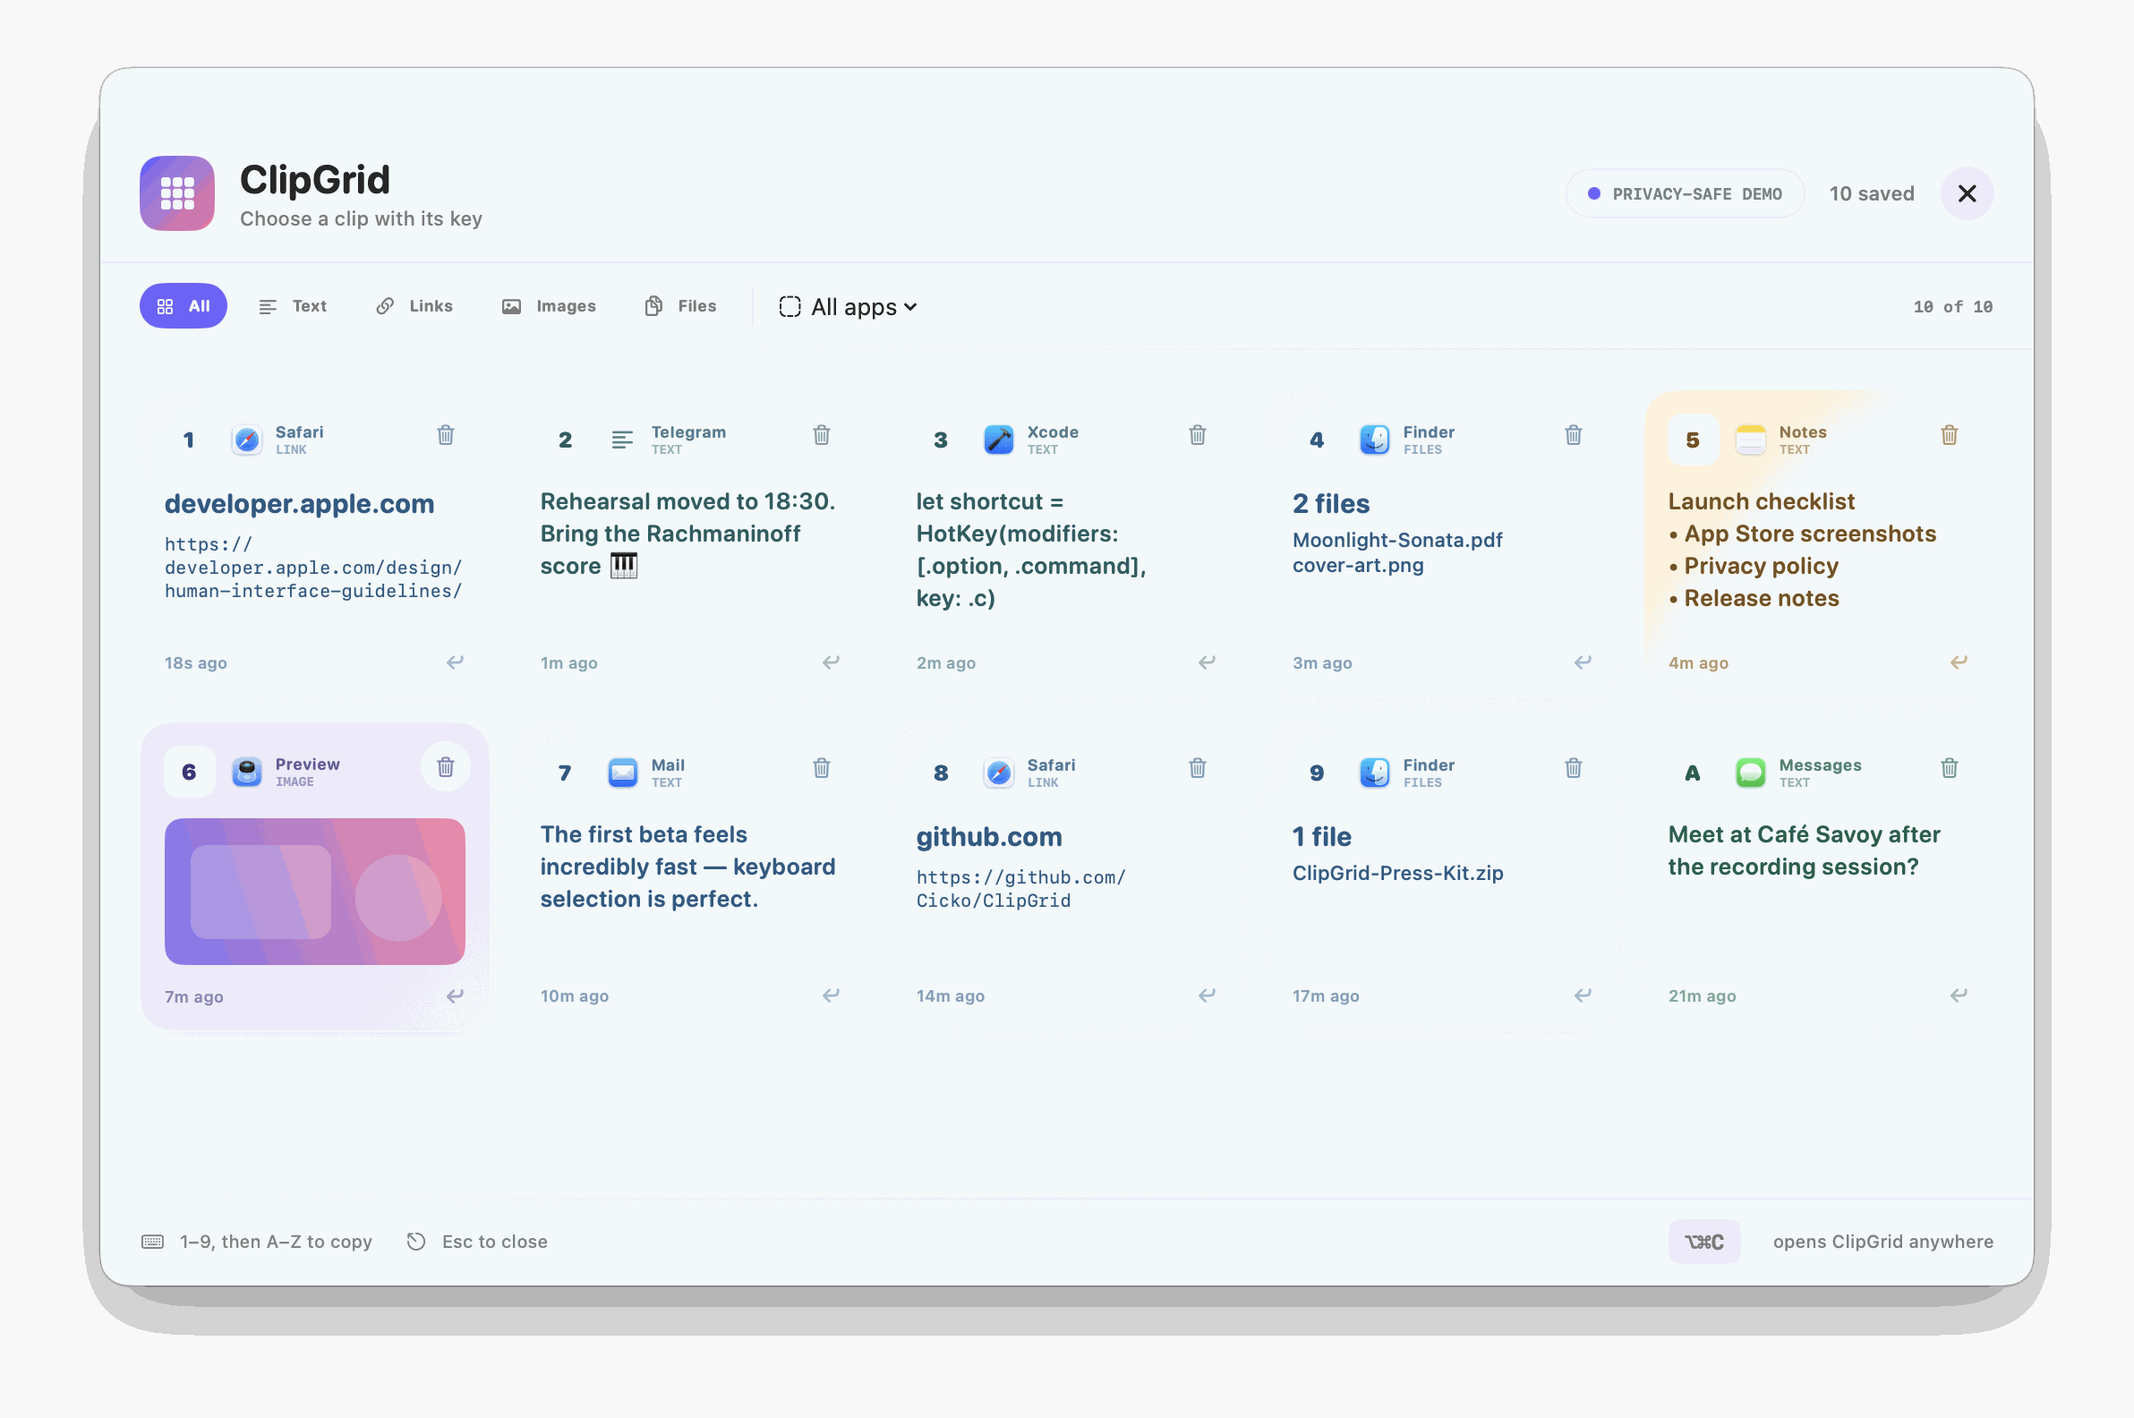
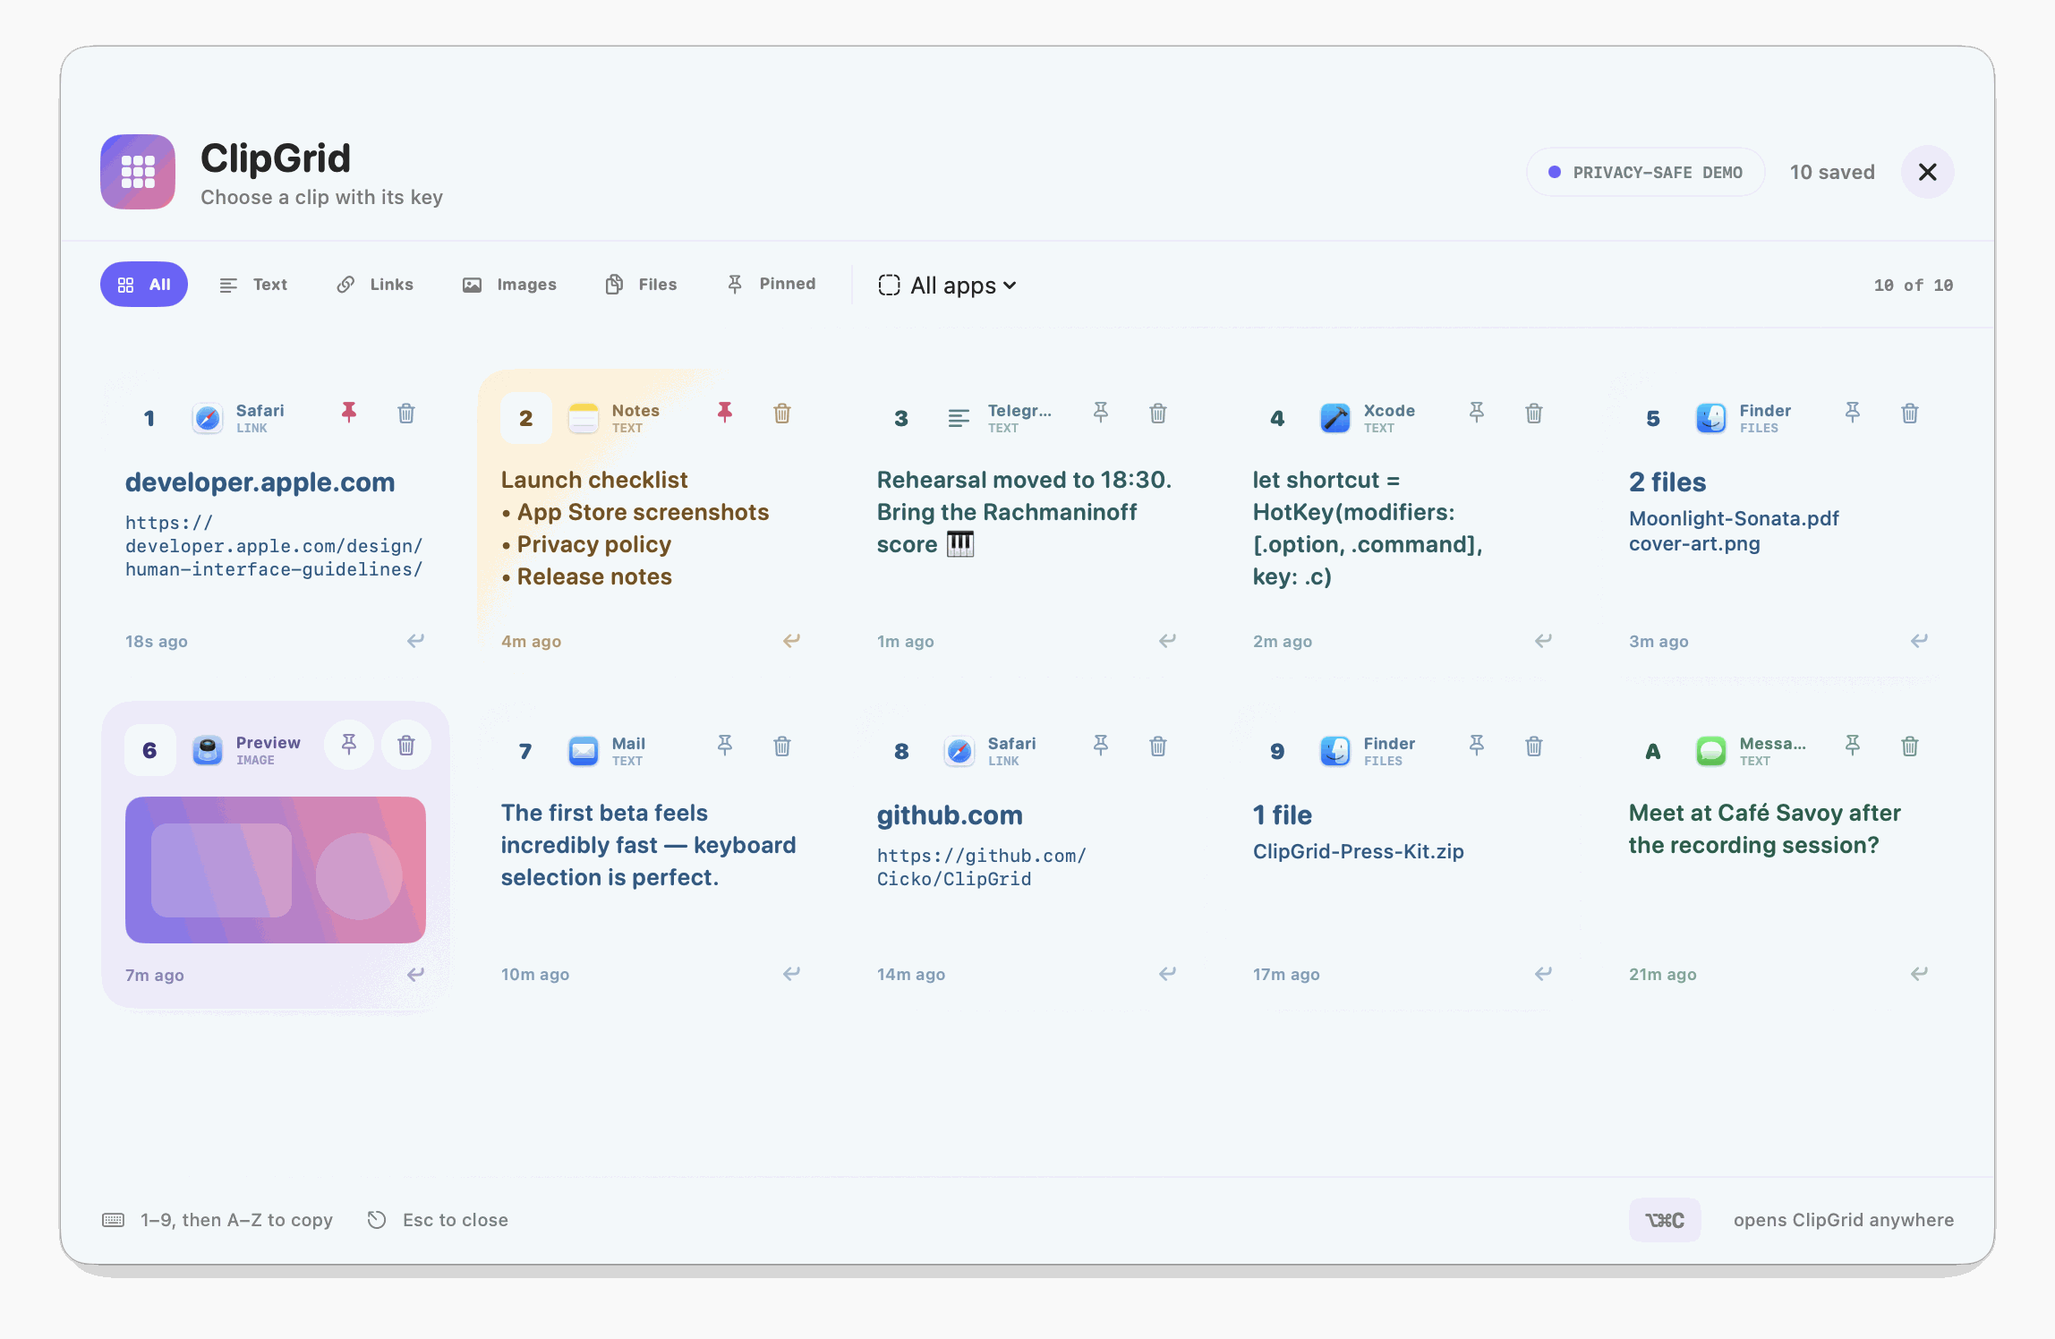
feat: add persistent pinned clips (#3)

diff --git a/Sources/ClipGrid/ClipboardStore.swift b/Sources/ClipGrid/ClipboardStore.swift
@@ -19,7 +19,7 @@ final class ClipboardStore: ObservableObject {
         lastChangeCount = pasteboard.changeCount
         historyURL = Self.makeHistoryURL()
         if demoMode {
-            items = DemoData.makeItems()
+            items = Self.ordered(DemoData.makeItems())
             isPaused = true
         } else {
             load()
@@ -85,12 +85,25 @@ final class ClipboardStore: ObservableObject {
         }
     }
 
+    func togglePinnedOnly() {
+        filter.pinnedOnly.toggle()
+    }
+
     func resetFilter() {
         filter = ClipboardFilter()
     }
 
     func delete(_ item: ClipboardItem) {
         items.removeAll { $0.id == item.id }
+        normalizeFilter()
+        persist()
+    }
+
+    func togglePinned(_ item: ClipboardItem) {
+        guard let index = items.firstIndex(where: { $0.id == item.id }) else { return }
+        var updated = items.remove(at: index)
+        updated.isPinned.toggle()
+        insertAtFrontOfSection(updated)
         normalizeFilter()
         persist()
     }
@@ -135,13 +148,18 @@ final class ClipboardStore: ObservableObject {
         guard currentChangeCount != lastChangeCount else { return }
         lastChangeCount = currentChangeCount
 
-        guard let item = makeClipboardItem() else { return }
+        guard var item = makeClipboardItem() else { return }
         if let existingIndex = items.firstIndex(where: { $0.fingerprint == item.fingerprint }) {
+            item.isPinned = items[existingIndex].isPinned
             items.remove(at: existingIndex)
         }
-        items.insert(item, at: 0)
-        if items.count > maximumItemCount {
-            items.removeLast(items.count - maximumItemCount)
+        insertAtFrontOfSection(item)
+        while items.count > maximumItemCount {
+            if let unpinnedIndex = items.lastIndex(where: { !$0.isPinned }) {
+                items.remove(at: unpinnedIndex)
+            } else {
+                items.removeLast()
+            }
         }
         persist()
     }
@@ -225,8 +243,17 @@ final class ClipboardStore: ObservableObject {
     private func moveToFront(_ item: ClipboardItem) {
         guard let index = items.firstIndex(where: { $0.id == item.id }), index != 0 else { return }
         let existing = items.remove(at: index)
-        items.insert(existing, at: 0)
+        insertAtFrontOfSection(existing)
         persist()
+    }
+
+    private func insertAtFrontOfSection(_ item: ClipboardItem) {
+        if item.isPinned {
+            items.insert(item, at: 0)
+        } else {
+            let firstUnpinnedIndex = items.firstIndex(where: { !$0.isPinned }) ?? items.endIndex
+            items.insert(item, at: firstUnpinnedIndex)
+        }
     }
 
     private func normalizeFilter() {
@@ -238,12 +265,15 @@ final class ClipboardStore: ObservableObject {
            !items.contains(where: { $0.fileExtensionKeys.contains(fileExtension) }) {
             filter.fileExtension = nil
         }
+        if filter.pinnedOnly, !items.contains(where: \.isPinned) {
+            filter.pinnedOnly = false
+        }
     }
 
     private func load() {
         guard let data = try? Data(contentsOf: historyURL),
               let decoded = try? JSONDecoder().decode([ClipboardItem].self, from: data) else { return }
-        items = Array(decoded.prefix(maximumItemCount))
+        items = Array(Self.ordered(decoded).prefix(maximumItemCount))
     }
 
     private func persist() {
@@ -264,5 +294,12 @@ final class ClipboardStore: ObservableObject {
         return applicationSupport
             .appendingPathComponent("ClipGrid", isDirectory: true)
             .appendingPathComponent("history.json")
+    }
+
+    private static func ordered(_ values: [ClipboardItem]) -> [ClipboardItem] {
+        values.sorted { first, second in
+            if first.isPinned != second.isPinned { return first.isPinned }
+            return first.copiedAt > second.copiedAt
+        }
     }
 }

diff --git a/Sources/ClipGrid/ClipboardGridView.swift b/Sources/ClipGrid/ClipboardGridView.swift
@@ -39,6 +39,7 @@ struct ClipboardGridView: View {
                                         item: item,
                                         shortcut: ShortcutMap.labels[index],
                                         onChoose: { onChoose(item) },
+                                        onPin: { store.togglePinned(item) },
                                         onDelete: { store.delete(item) }
                                     )
                                 }
@@ -131,6 +132,21 @@ struct ClipboardGridView: View {
                 }
                 .buttonStyle(.plain)
             }
+
+            Button {
+                store.togglePinnedOnly()
+            } label: {
+                Label("Pinned", systemImage: store.filter.pinnedOnly ? "pin.fill" : "pin")
+                    .font(.system(size: 9, weight: .bold, design: .rounded))
+                    .padding(.horizontal, 9)
+                    .padding(.vertical, 7)
+                    .foregroundStyle(store.filter.pinnedOnly ? .white : .secondary)
+                    .background(
+                        store.filter.pinnedOnly ? Color(hex: 0xFF6F91) : .black.opacity(0.045),
+                        in: Capsule()
+                    )
+            }
+            .buttonStyle(.plain)
 
             Divider().frame(height: 22).padding(.horizontal, 2)
 
@@ -321,6 +337,7 @@ private struct ClipboardCard: View {
     let item: ClipboardItem
     let shortcut: String
     let onChoose: () -> Void
+    let onPin: () -> Void
     let onDelete: () -> Void
 
     @State private var isHovering = false
@@ -347,7 +364,7 @@ private struct ClipboardCard: View {
                     sourceBadge
 
                     Spacer()
-                    Color.clear.frame(width: 25, height: 25)
+                    Color.clear.frame(width: 58, height: 25)
                 }
 
                 content
@@ -365,16 +382,28 @@ private struct ClipboardCard: View {
             }
             .padding(14)
 
-            Button(action: onDelete) {
-                Image(systemName: "trash")
-                    .font(.system(size: 10, weight: .bold))
-                    .foregroundStyle(palette.ink.opacity(0.6))
-                    .frame(width: 28, height: 28)
-                    .background(.white.opacity(isHovering ? 0.88 : 0.58), in: Circle())
+            HStack(spacing: 4) {
+                Button(action: onPin) {
+                    Image(systemName: item.isPinned ? "pin.fill" : "pin")
+                        .font(.system(size: 10, weight: .bold))
+                        .foregroundStyle(item.isPinned ? Color(hex: 0xD94F73) : palette.ink.opacity(0.6))
+                        .frame(width: 28, height: 28)
+                        .background(.white.opacity(isHovering || item.isPinned ? 0.9 : 0.58), in: Circle())
+                }
+                .buttonStyle(.plain)
+                .help(item.isPinned ? "Unpin this clip" : "Pin this clip")
+
+                Button(action: onDelete) {
+                    Image(systemName: "trash")
+                        .font(.system(size: 10, weight: .bold))
+                        .foregroundStyle(palette.ink.opacity(0.6))
+                        .frame(width: 28, height: 28)
+                        .background(.white.opacity(isHovering ? 0.88 : 0.58), in: Circle())
+                }
+                .buttonStyle(.plain)
+                .help("Delete this clip")
             }
-            .buttonStyle(.plain)
             .padding(11)
-            .help("Delete this clip")
         }
         .frame(height: 172)
         .scaleEffect(isHovering ? 1.018 : 1)

diff --git a/Sources/ClipGrid/ClipboardItem.swift b/Sources/ClipGrid/ClipboardItem.swift
@@ -37,6 +37,7 @@ struct ClipboardItem: Identifiable, Codable, Equatable, Sendable {
     let sourceAppName: String?
     let sourceBundleIdentifier: String?
     let sourceIconData: Data?
+    var isPinned: Bool
 
     init(
         id: UUID = UUID(),
@@ -48,7 +49,8 @@ struct ClipboardItem: Identifiable, Codable, Equatable, Sendable {
         colorIndex: Int,
         sourceAppName: String? = nil,
         sourceBundleIdentifier: String? = nil,
-        sourceIconData: Data? = nil
+        sourceIconData: Data? = nil,
+        isPinned: Bool = false
     ) {
         self.id = id
         self.kind = kind
@@ -60,6 +62,7 @@ struct ClipboardItem: Identifiable, Codable, Equatable, Sendable {
         self.sourceAppName = sourceAppName
         self.sourceBundleIdentifier = sourceBundleIdentifier
         self.sourceIconData = sourceIconData
+        self.isPinned = isPinned
     }
 
     var fingerprint: String {
@@ -76,5 +79,40 @@ struct ClipboardItem: Identifiable, Codable, Equatable, Sendable {
         case .files: "\(filePaths.count) copied file\(filePaths.count == 1 ? "" : "s")"
         case .link, .text: text
         }
+    }
+
+    private enum CodingKeys: String, CodingKey {
+        case id, kind, text, imageData, filePaths, copiedAt, colorIndex
+        case sourceAppName, sourceBundleIdentifier, sourceIconData, isPinned
+    }
+
+    init(from decoder: Decoder) throws {
+        let container = try decoder.container(keyedBy: CodingKeys.self)
+        id = try container.decode(UUID.self, forKey: .id)
+        kind = try container.decode(Kind.self, forKey: .kind)
+        text = try container.decode(String.self, forKey: .text)
+        imageData = try container.decodeIfPresent(Data.self, forKey: .imageData)
+        filePaths = try container.decode([String].self, forKey: .filePaths)
+        copiedAt = try container.decode(Date.self, forKey: .copiedAt)
+        colorIndex = try container.decode(Int.self, forKey: .colorIndex)
+        sourceAppName = try container.decodeIfPresent(String.self, forKey: .sourceAppName)
+        sourceBundleIdentifier = try container.decodeIfPresent(String.self, forKey: .sourceBundleIdentifier)
+        sourceIconData = try container.decodeIfPresent(Data.self, forKey: .sourceIconData)
+        isPinned = try container.decodeIfPresent(Bool.self, forKey: .isPinned) ?? false
+    }
+
+    func encode(to encoder: Encoder) throws {
+        var container = encoder.container(keyedBy: CodingKeys.self)
+        try container.encode(id, forKey: .id)
+        try container.encode(kind, forKey: .kind)
+        try container.encode(text, forKey: .text)
+        try container.encodeIfPresent(imageData, forKey: .imageData)
+        try container.encode(filePaths, forKey: .filePaths)
+        try container.encode(copiedAt, forKey: .copiedAt)
+        try container.encode(colorIndex, forKey: .colorIndex)
+        try container.encodeIfPresent(sourceAppName, forKey: .sourceAppName)
+        try container.encodeIfPresent(sourceBundleIdentifier, forKey: .sourceBundleIdentifier)
+        try container.encodeIfPresent(sourceIconData, forKey: .sourceIconData)
+        try container.encode(isPinned, forKey: .isPinned)
     }
 }

diff --git a/Tests/ClipGridTests/ClipGridTests.swift b/Tests/ClipGridTests/ClipGridTests.swift
@@ -18,7 +18,8 @@ import Testing
         text: "same value",
         colorIndex: 8,
         sourceAppName: "Safari",
-        sourceBundleIdentifier: "com.apple.Safari"
+        sourceBundleIdentifier: "com.apple.Safari",
+        isPinned: true
     )
     let different = ClipboardItem(kind: .link, text: "same value", colorIndex: 0)
 
@@ -53,6 +54,7 @@ import Testing
     #expect(item.sourceAppName == nil)
     #expect(item.sourceBundleIdentifier == nil)
     #expect(item.sourceIconData == nil)
+    #expect(!item.isPinned)
 }
 
 @Test func filtersMatchKindSourceAndFileExtension() {
@@ -94,6 +96,7 @@ import Testing
     #expect(items.allSatisfy { $0.sourceAppName != nil })
     #expect(items.contains { $0.kind == .image })
     #expect(items.contains { $0.kind == .files && $0.fileExtensionKeys.contains("pdf") })
+    #expect(items.filter(\.isPinned).count == 2)
 
     let safariLinks = items.filter(
         ClipboardFilter(kind: .link, sourceKey: "com.apple.Safari").matches
@@ -108,4 +111,22 @@ import Testing
         ).matches
     )
     #expect(finderPDFs.count == 1)
+}
+
+@Test @MainActor func pinningReordersAndFiltersDemoHistory() throws {
+    let store = ClipboardStore(demoMode: true)
+    #expect(store.items.prefix(2).allSatisfy { $0.isPinned })
+
+    let itemToPin = try #require(store.items.last(where: { !$0.isPinned }))
+    store.togglePinned(itemToPin)
+    #expect(store.items.first?.id == itemToPin.id)
+    #expect(store.items.first?.isPinned == true)
+
+    store.togglePinnedOnly()
+    #expect(store.filteredItems.count == 3)
+    #expect(store.filteredItems.allSatisfy { $0.isPinned })
+
+    store.togglePinned(itemToPin)
+    #expect(store.filteredItems.count == 2)
+    #expect(store.items.firstIndex(where: { !$0.isPinned }) == 2)
 }

diff --git a/Sources/ClipGrid/DemoData.swift b/Sources/ClipGrid/DemoData.swift
@@ -11,6 +11,7 @@ enum DemoData {
                 text: "https://developer.apple.com/design/human-interface-guidelines/",
                 appName: "Safari",
                 bundleIdentifier: "com.apple.Safari",
+                isPinned: true,
                 secondsAgo: 18,
                 now: now
             ),
@@ -44,6 +45,7 @@ enum DemoData {
                 text: "Launch checklist\n• App Store screenshots\n• Privacy policy\n• Release notes",
                 appName: "Notes",
                 bundleIdentifier: "com.apple.Notes",
+                isPinned: true,
                 secondsAgo: 270,
                 now: now
             ),
@@ -99,6 +101,7 @@ enum DemoData {
         filePaths: [String] = [],
         appName: String,
         bundleIdentifier: String,
+        isPinned: Bool = false,
         secondsAgo: TimeInterval,
         now: Date
     ) -> ClipboardItem {
@@ -114,7 +117,8 @@ enum DemoData {
             ),
             sourceAppName: appName,
             sourceBundleIdentifier: bundleIdentifier,
-            sourceIconData: SourceApplication.iconData(forBundleIdentifier: bundleIdentifier)
+            sourceIconData: SourceApplication.iconData(forBundleIdentifier: bundleIdentifier),
+            isPinned: isPinned
         )
     }
 

diff --git a/Sources/ClipGrid/ClipboardFilter.swift b/Sources/ClipGrid/ClipboardFilter.swift
@@ -67,13 +67,15 @@ struct ClipboardFilter: Equatable {
     var kind: ClipKindFilter = .all
     var sourceKey: String?
     var fileExtension: String?
+    var pinnedOnly = false
 
     var isActive: Bool {
-        kind != .all || sourceKey != nil || fileExtension != nil
+        kind != .all || sourceKey != nil || fileExtension != nil || pinnedOnly
     }
 
     func matches(_ item: ClipboardItem) -> Bool {
         guard kind.matches(item) else { return false }
+        if pinnedOnly, !item.isPinned { return false }
         if let sourceKey, item.sourceKey != sourceKey { return false }
         if let fileExtension, !item.fileExtensionKeys.contains(fileExtension) { return false }
         return true

diff --git a/README.md b/README.md
@@ -42,6 +42,7 @@ Clipboard history should be immediate, visually understandable, and private. Cli
 - **App-aware color families** — browsers, Telegram, messaging, notes, developer tools, and other apps receive consistent visual treatment
 - **Instant filters** — narrow history by text, link, image, file, or originating application
 - **Dynamic file types** — when viewing files, filter by extensions such as PDF, PNG, ZIP, or folders without an extension
+- **Persistent pins** — keep important clips above normal history and view them with a dedicated Pinned filter
 - **URL presentation** — copied links show their host and complete URL
 - **Automatic deduplication** — repeated values move to the front
 - **Per-card deletion** — every card includes a trash control
@@ -60,6 +61,8 @@ Clipboard history should be immediate, visually understandable, and private. Cli
 | Press `1–9` or `A–Z` | Copy the assigned card back to the system clipboard |
 | Click a card | Copy that card |
 | Click its trash icon | Remove only that clip |
+| Click its pin icon | Pin or unpin the clip; pinned values stay at the top |
+| Choose the Pinned filter | Show only retained pinned values |
 | Choose a type or app filter | Reassign keys to only the visible matching cards |
 | Choose a file extension | Show copied files containing that type |
 | Press `Esc` | Close the panel |
@@ -157,8 +160,8 @@ Tests currently cover:
 
 - [ ] Sandboxed Xcode project and App Store archive workflow
 - [ ] Launch at login
-- [ ] Search and filtering
-- [ ] Pin important clips
+- [x] Filtering by content type, file extension, and source app
+- [x] Pin important clips
 - [ ] User-configurable history length
 - [ ] Optional automatic expiration
 - [ ] App exclusions
